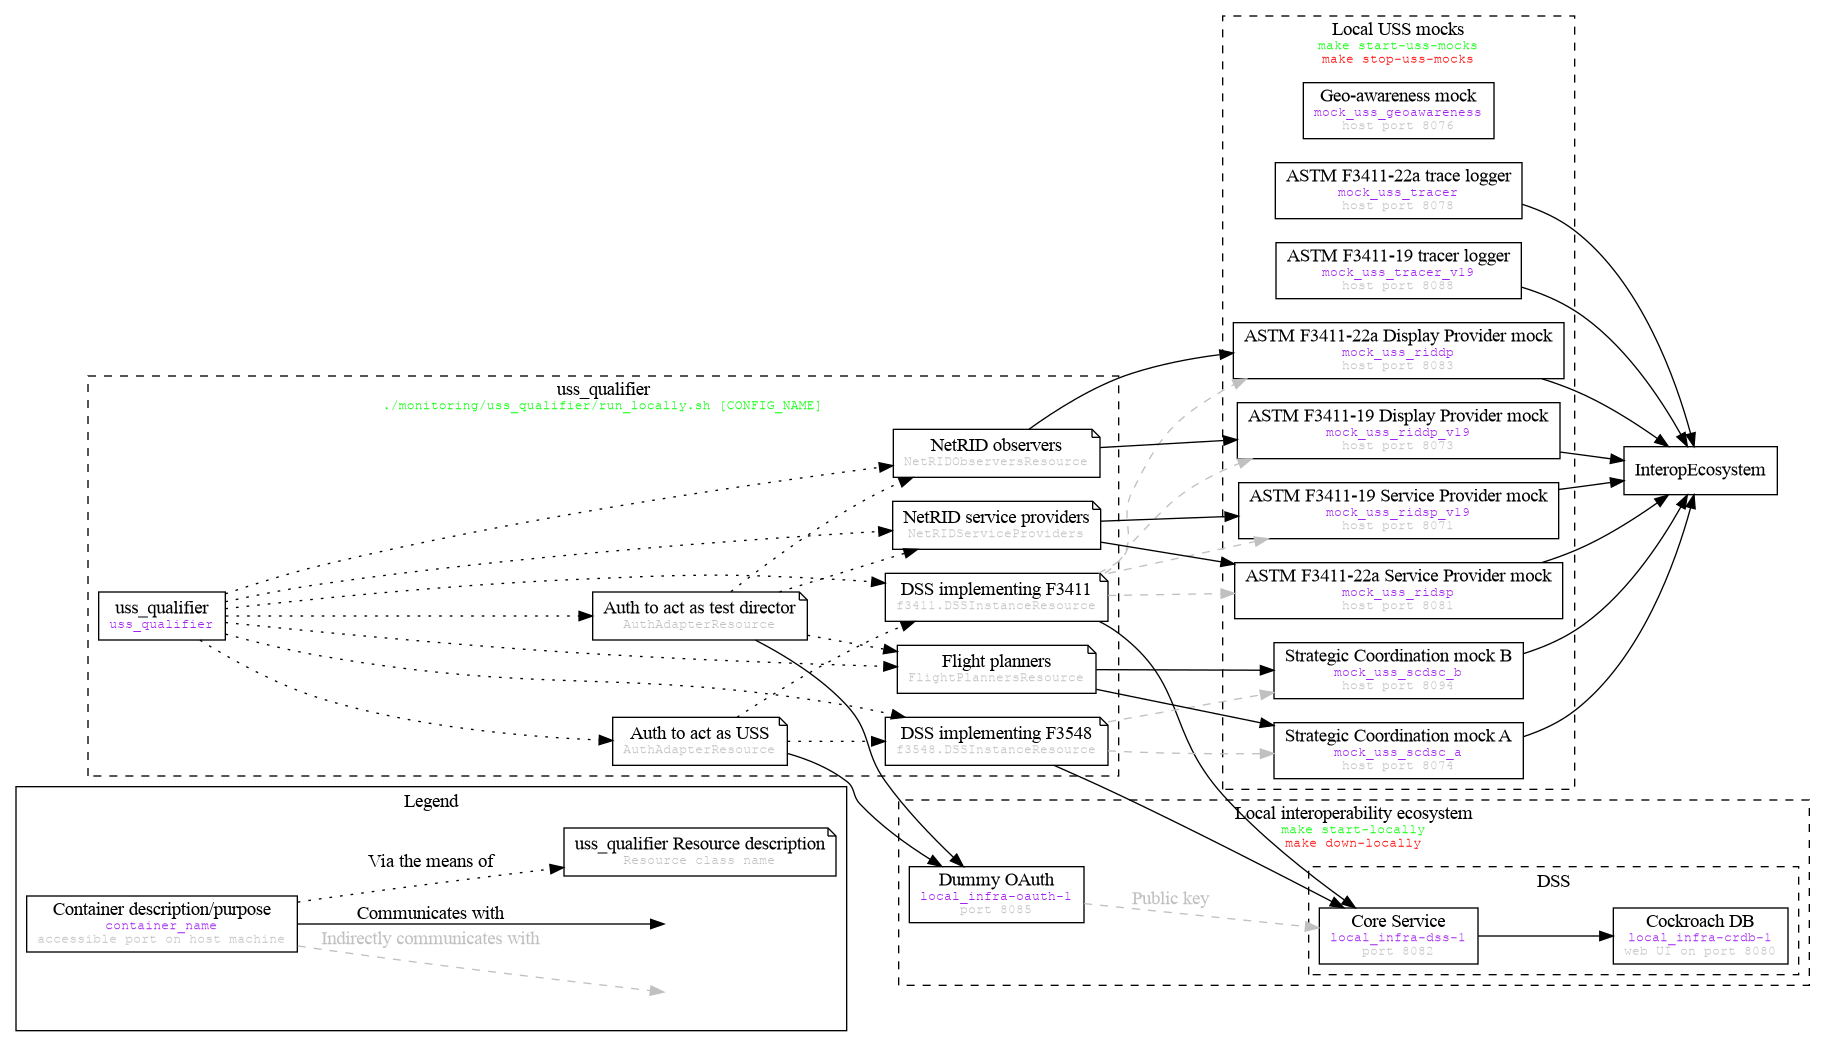
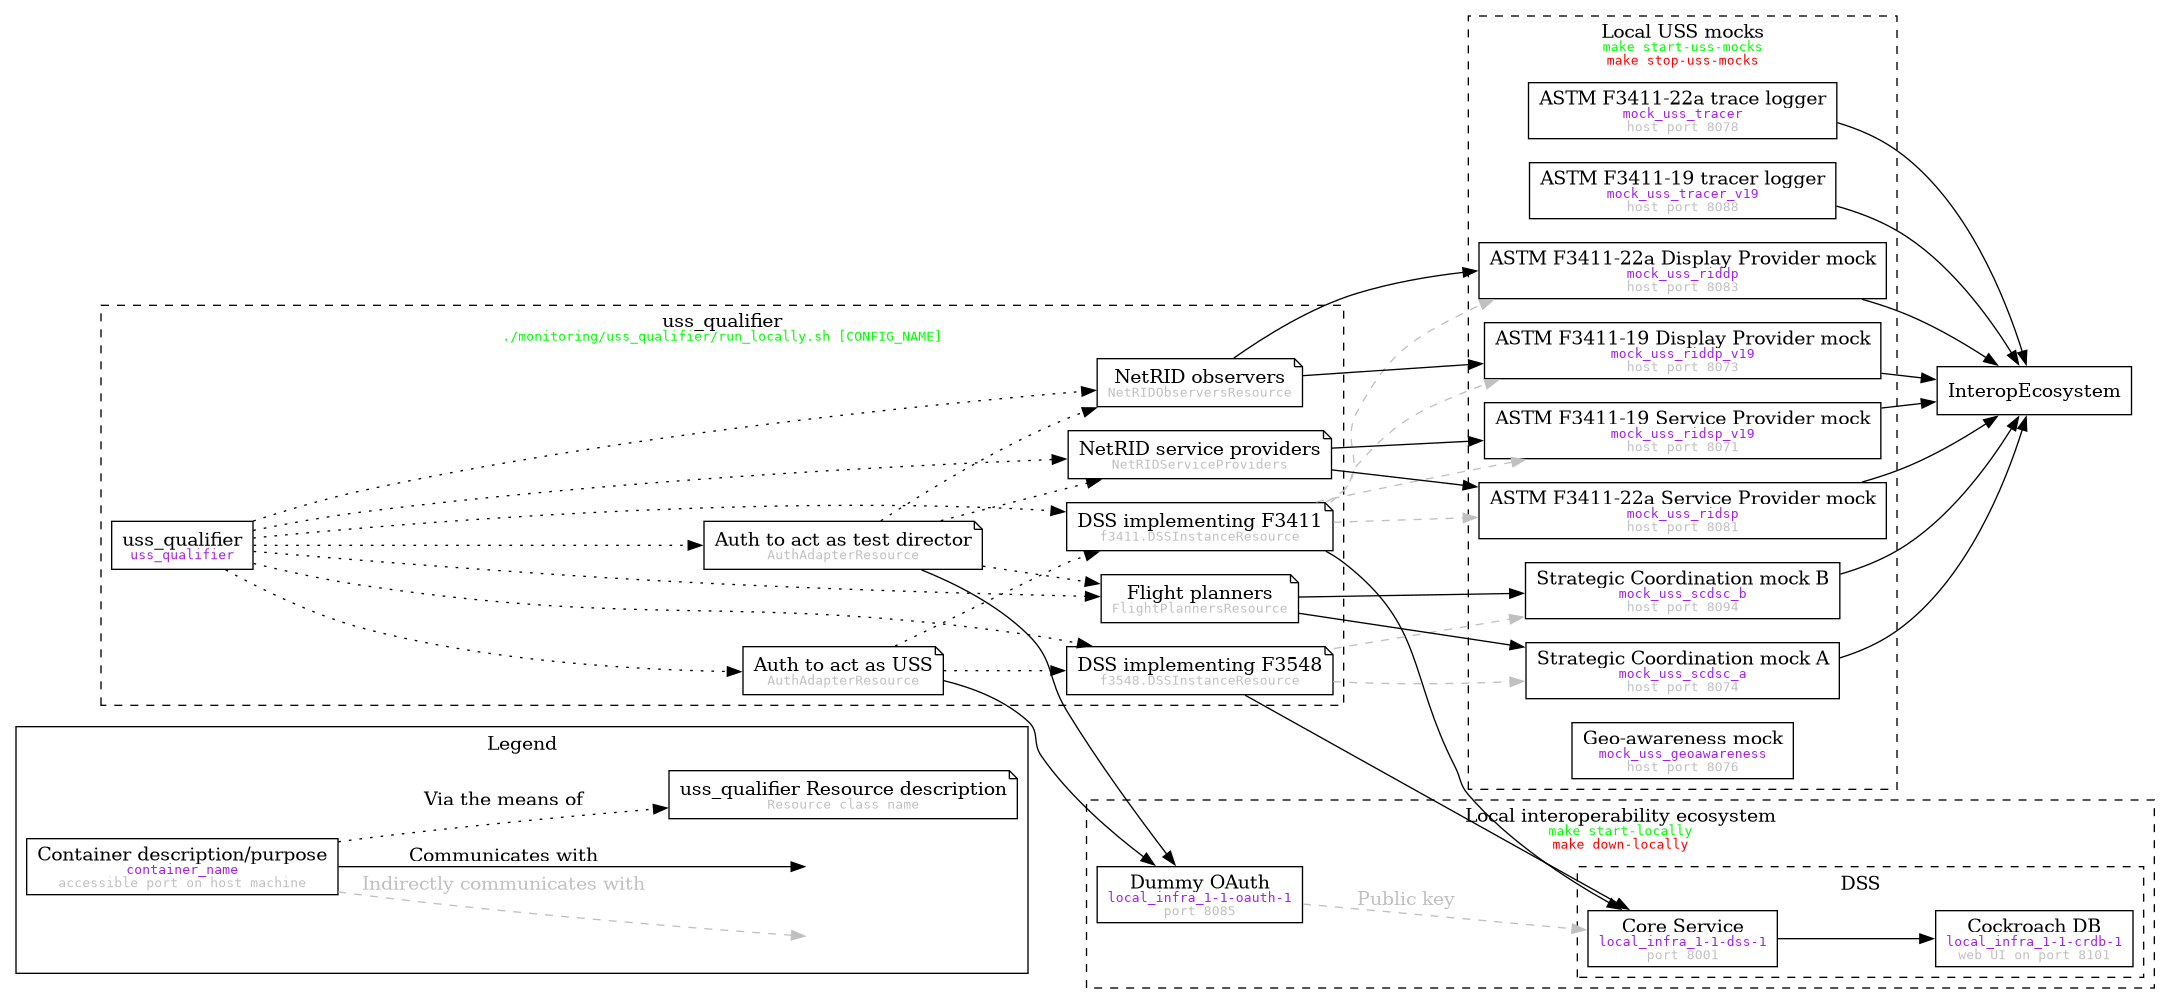
run_locally.sh: enable simulations with tc netem; add corresponding CI jobs for crdb/ybdb

diff --git a/monitoring/loadtest/README.md b/monitoring/loadtest/README.md
@@ -78,7 +78,7 @@ Simply build the Docker container with the Dockerfile from the root directory. A
 ## Use
 1. Navigate to http://127.0.0.1:8089
 1. Start new test with number of Users to spawn and the rate to spawn them.
-1. For the Host, provide the DSS root endpoint used for testing. An example of such url is: http://dss.uss1.localutm/ in case local environment is setup with `make start-locally`
+1. For the Host, provide the DSS root endpoint used for testing. An example of such url is: http://dss1.uss1.localutm/ in case local environment is setup with `make start-locally`
 
 ## Examples to run tests locally
 
@@ -89,16 +89,16 @@ Before running all examples:
 
 ### ISA.py
 
-`docker run -e AUTH_SPEC="DummyOAuth(http://oauth.authority.localutm:8085/token,uss1)" --network="interop_ecosystem_network" -p 8089:8089 -v .:/app/ interuss/monitoring-dev uv run locust -f loadtest/locust_files/ISA.py -H http://dss.uss1.localutm -u 10 --uss-base-url http://dss.uss1.localutm`
+`docker run -e AUTH_SPEC="DummyOAuth(http://oauth.authority.localutm:8085/token,uss1)" --network="interop_ecosystem_network" -p 8089:8089 -v .:/app/ interuss/monitoring-dev uv run locust -f loadtest/locust_files/ISA.py -H http://dss1.uss1.localutm -u 10 --uss-base-url http://dss1.uss1.localutm`
 
 ### Sub.py
 
-`docker run -e AUTH_SPEC="DummyOAuth(http://oauth.authority.localutm:8085/token,uss1)" --network="interop_ecosystem_network" -p 8089:8089 -v .:/app/ interuss/monitoring-dev uv run locust -f loadtest/locust_files/Sub.py -H http://dss.uss1.localutm -u 10 --uss-base-url http://dss.uss1.localutm`
+`docker run -e AUTH_SPEC="DummyOAuth(http://oauth.authority.localutm:8085/token,uss1)" --network="interop_ecosystem_network" -p 8089:8089 -v .:/app/ interuss/monitoring-dev uv run locust -f loadtest/locust_files/Sub.py -H http://dss1.uss1.localutm -u 10 --uss-base-url http://dss1.uss1.localutm`
 
 ### SCD.py
 
-`docker run -e AUTH_SPEC="DummyOAuth(http://oauth.authority.localutm:8085/token,uss1)" --network="interop_ecosystem_network" -p 8089:8089 -v .:/app/ interuss/monitoring-dev uv run locust -f loadtest/locust_files/SCD.py -H http://dss.uss1.localutm -u 10 --area-lat -34.93 --area-lng 138.6 --area-radius 1000 --max-flight-distance 12000 --uss-base-url http://dss.uss1.localutm`
+`docker run -e AUTH_SPEC="DummyOAuth(http://oauth.authority.localutm:8085/token,uss1)" --network="interop_ecosystem_network" -p 8089:8089 -v .:/app/ interuss/monitoring-dev uv run locust -f loadtest/locust_files/SCD.py -H http://dss1.uss1.localutm -u 10 --area-lat -34.93 --area-lng 138.6 --area-radius 1000 --max-flight-distance 12000 --uss-base-url http://dss1.uss1.localutm`
 
 ### FlightsInSub.py
 
-`docker run -e AUTH_SPEC="DummyOAuth(http://oauth.authority.localutm:8085/token,uss1)" --network="interop_ecosystem_network" -p 8089:8089 -v .:/app/ interuss/monitoring-dev uv run locust -f loadtest/locust_files/FlightsInSub.py -H http://dss.uss1.localutm -u 10 --cluster-count 3 --base-lat -34.93 --base-lng 138.6 --area-radius 1000 --max-flight-distance 1000 --uss-base-url http://dss.uss1.localutm`
+`docker run -e AUTH_SPEC="DummyOAuth(http://oauth.authority.localutm:8085/token,uss1)" --network="interop_ecosystem_network" -p 8089:8089 -v .:/app/ interuss/monitoring-dev uv run locust -f loadtest/locust_files/FlightsInSub.py -H http://dss1.uss1.localutm -u 10 --cluster-count 3 --base-lat -34.93 --base-lng 138.6 --area-radius 1000 --max-flight-distance 1000 --uss-base-url http://dss1.uss1.localutm`

diff --git a/monitoring/uss_qualifier/suites/faa/uft/design/README.md b/monitoring/uss_qualifier/suites/faa/uft/design/README.md
@@ -12,7 +12,7 @@ The test setup includes running the following components, as also shown in the [
 
 1. uss_qualifier - This is the test driver that injects the operations for the SCD flow tests in USSes.
 2. Auth - This auth server provides access tokens and the public key for token validation for USS-to-USS and USS-to-DSS communication. In a local deployment of the test infrastructure, this can be supplied by an instance of dummy auth running as a dockerized container exposing port 8085, as per build/dev/run_locally.sh.
-3.  DSS - This is a DSS instance supporting SCD in the UTM environment defined by the auth server.  In a local deployment of the test infrastructure, this can be supplied by the local DSS instance running as a dockerized container exposing port 8082, as per build/dev/run_locally.sh.
+3.  DSS - This is a DSS instance supporting SCD in the UTM environment defined by the auth server.  In a local deployment of the test infrastructure, this can be supplied by the local DSS instance running as a dockerized container exposing port 8001, as per build/dev/run_locally.sh.
 4. Mock USS - This is an instance of the InterUSS monitoring tool mock_uss with scd and messagesigning capabilities enabled.  In a local deployment of the test infrastructure, this can be supplied by a local instance of mock_uss running as a dockerized container exposing port 8077, as per monitoring/mock_uss/run_locally_msgsigning.sh.
 5. USS-under-Test - This is the USS that needs to be tested.
 6. uss_qualifier interface. USSes need to develop an interface for their USS
@@ -39,7 +39,7 @@ The property to set is `resources.resource_declarations.flight_planners.specific
     ```
 4. Prepare your USS to run with
    1. The auth server used by the UTM ecosystem under test (dummy auth at http://localhost:8085/token or http://host.docker.internal:8085/token in a local deployment of the test infrastructure).
-   2. A DSS instance supporting SCD in the UTM ecosystem under test (DSS at http://localhost:8082 or http://host.docker.internal:8085 in a local deployment of the test infrastructure).
+   2. A DSS instance supporting SCD in the UTM ecosystem under test (DSS at http://localhost:8001 or http://host.docker.internal:8085 in a local deployment of the test infrastructure).
 5. Run the uss_qualifier interface for your USS.
 6. Run uss_qualifier tests using script [run_locally.sh](../../../../../../monitoring/uss_qualifier/run_locally.sh) with config
     ```bash